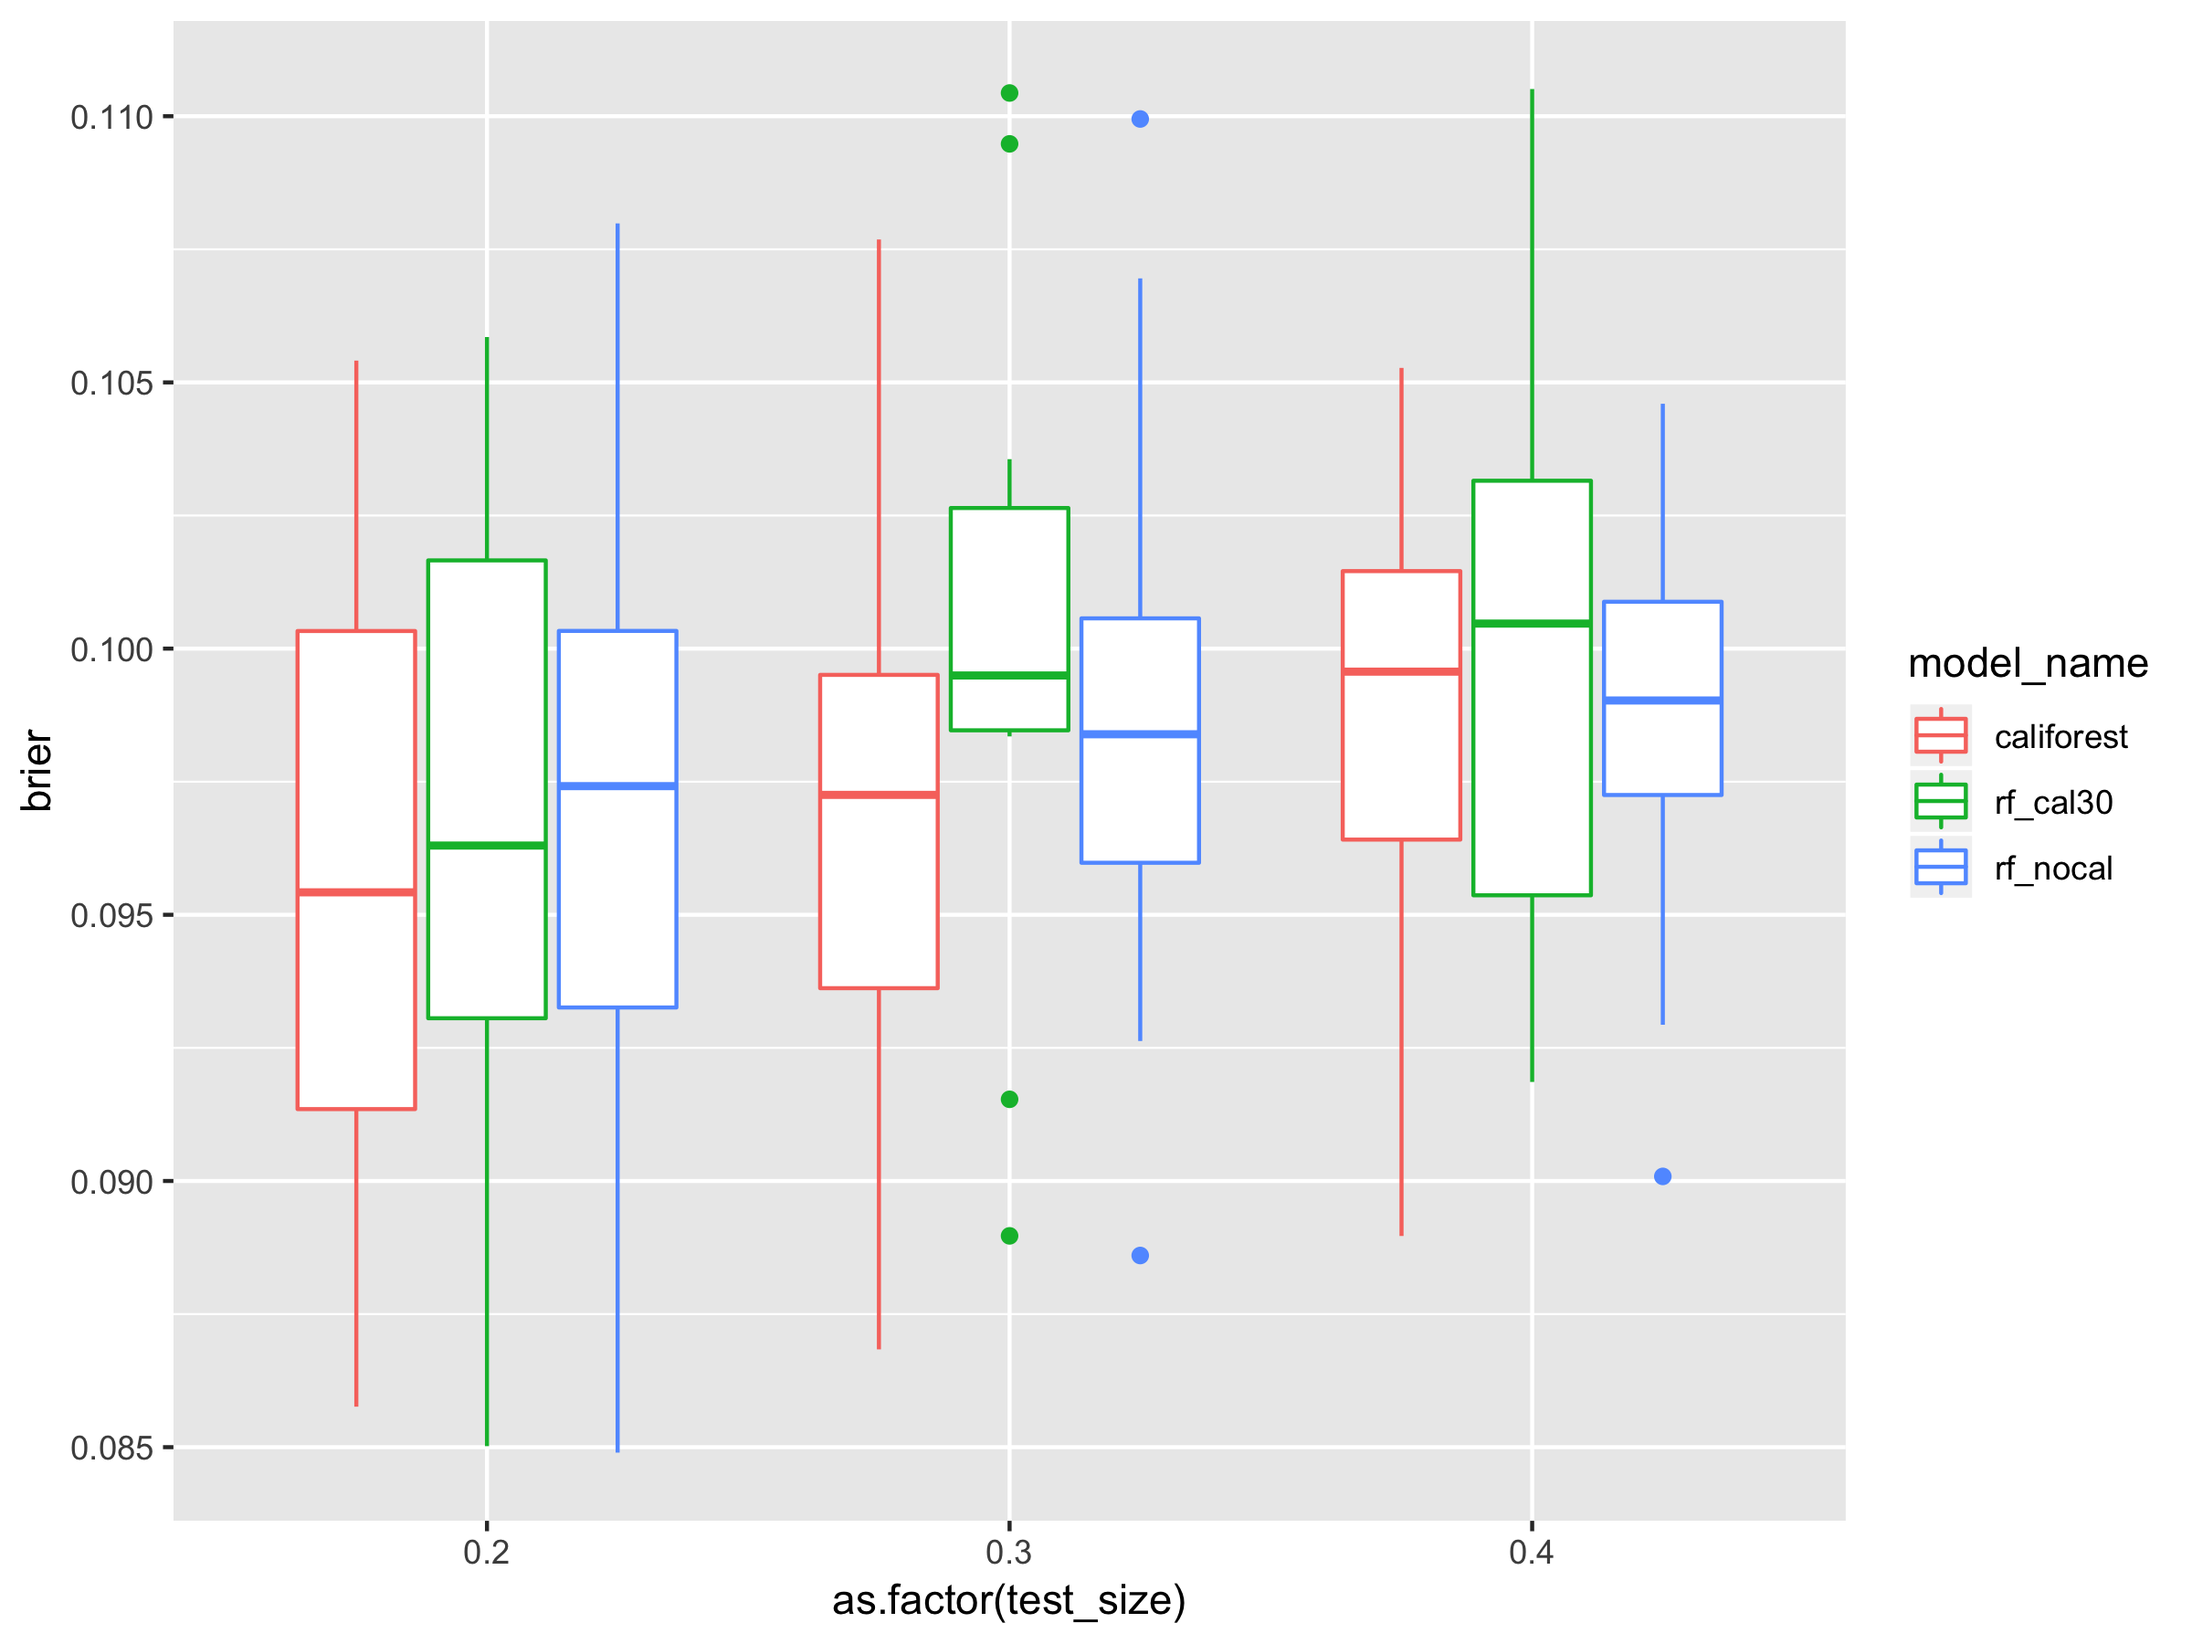
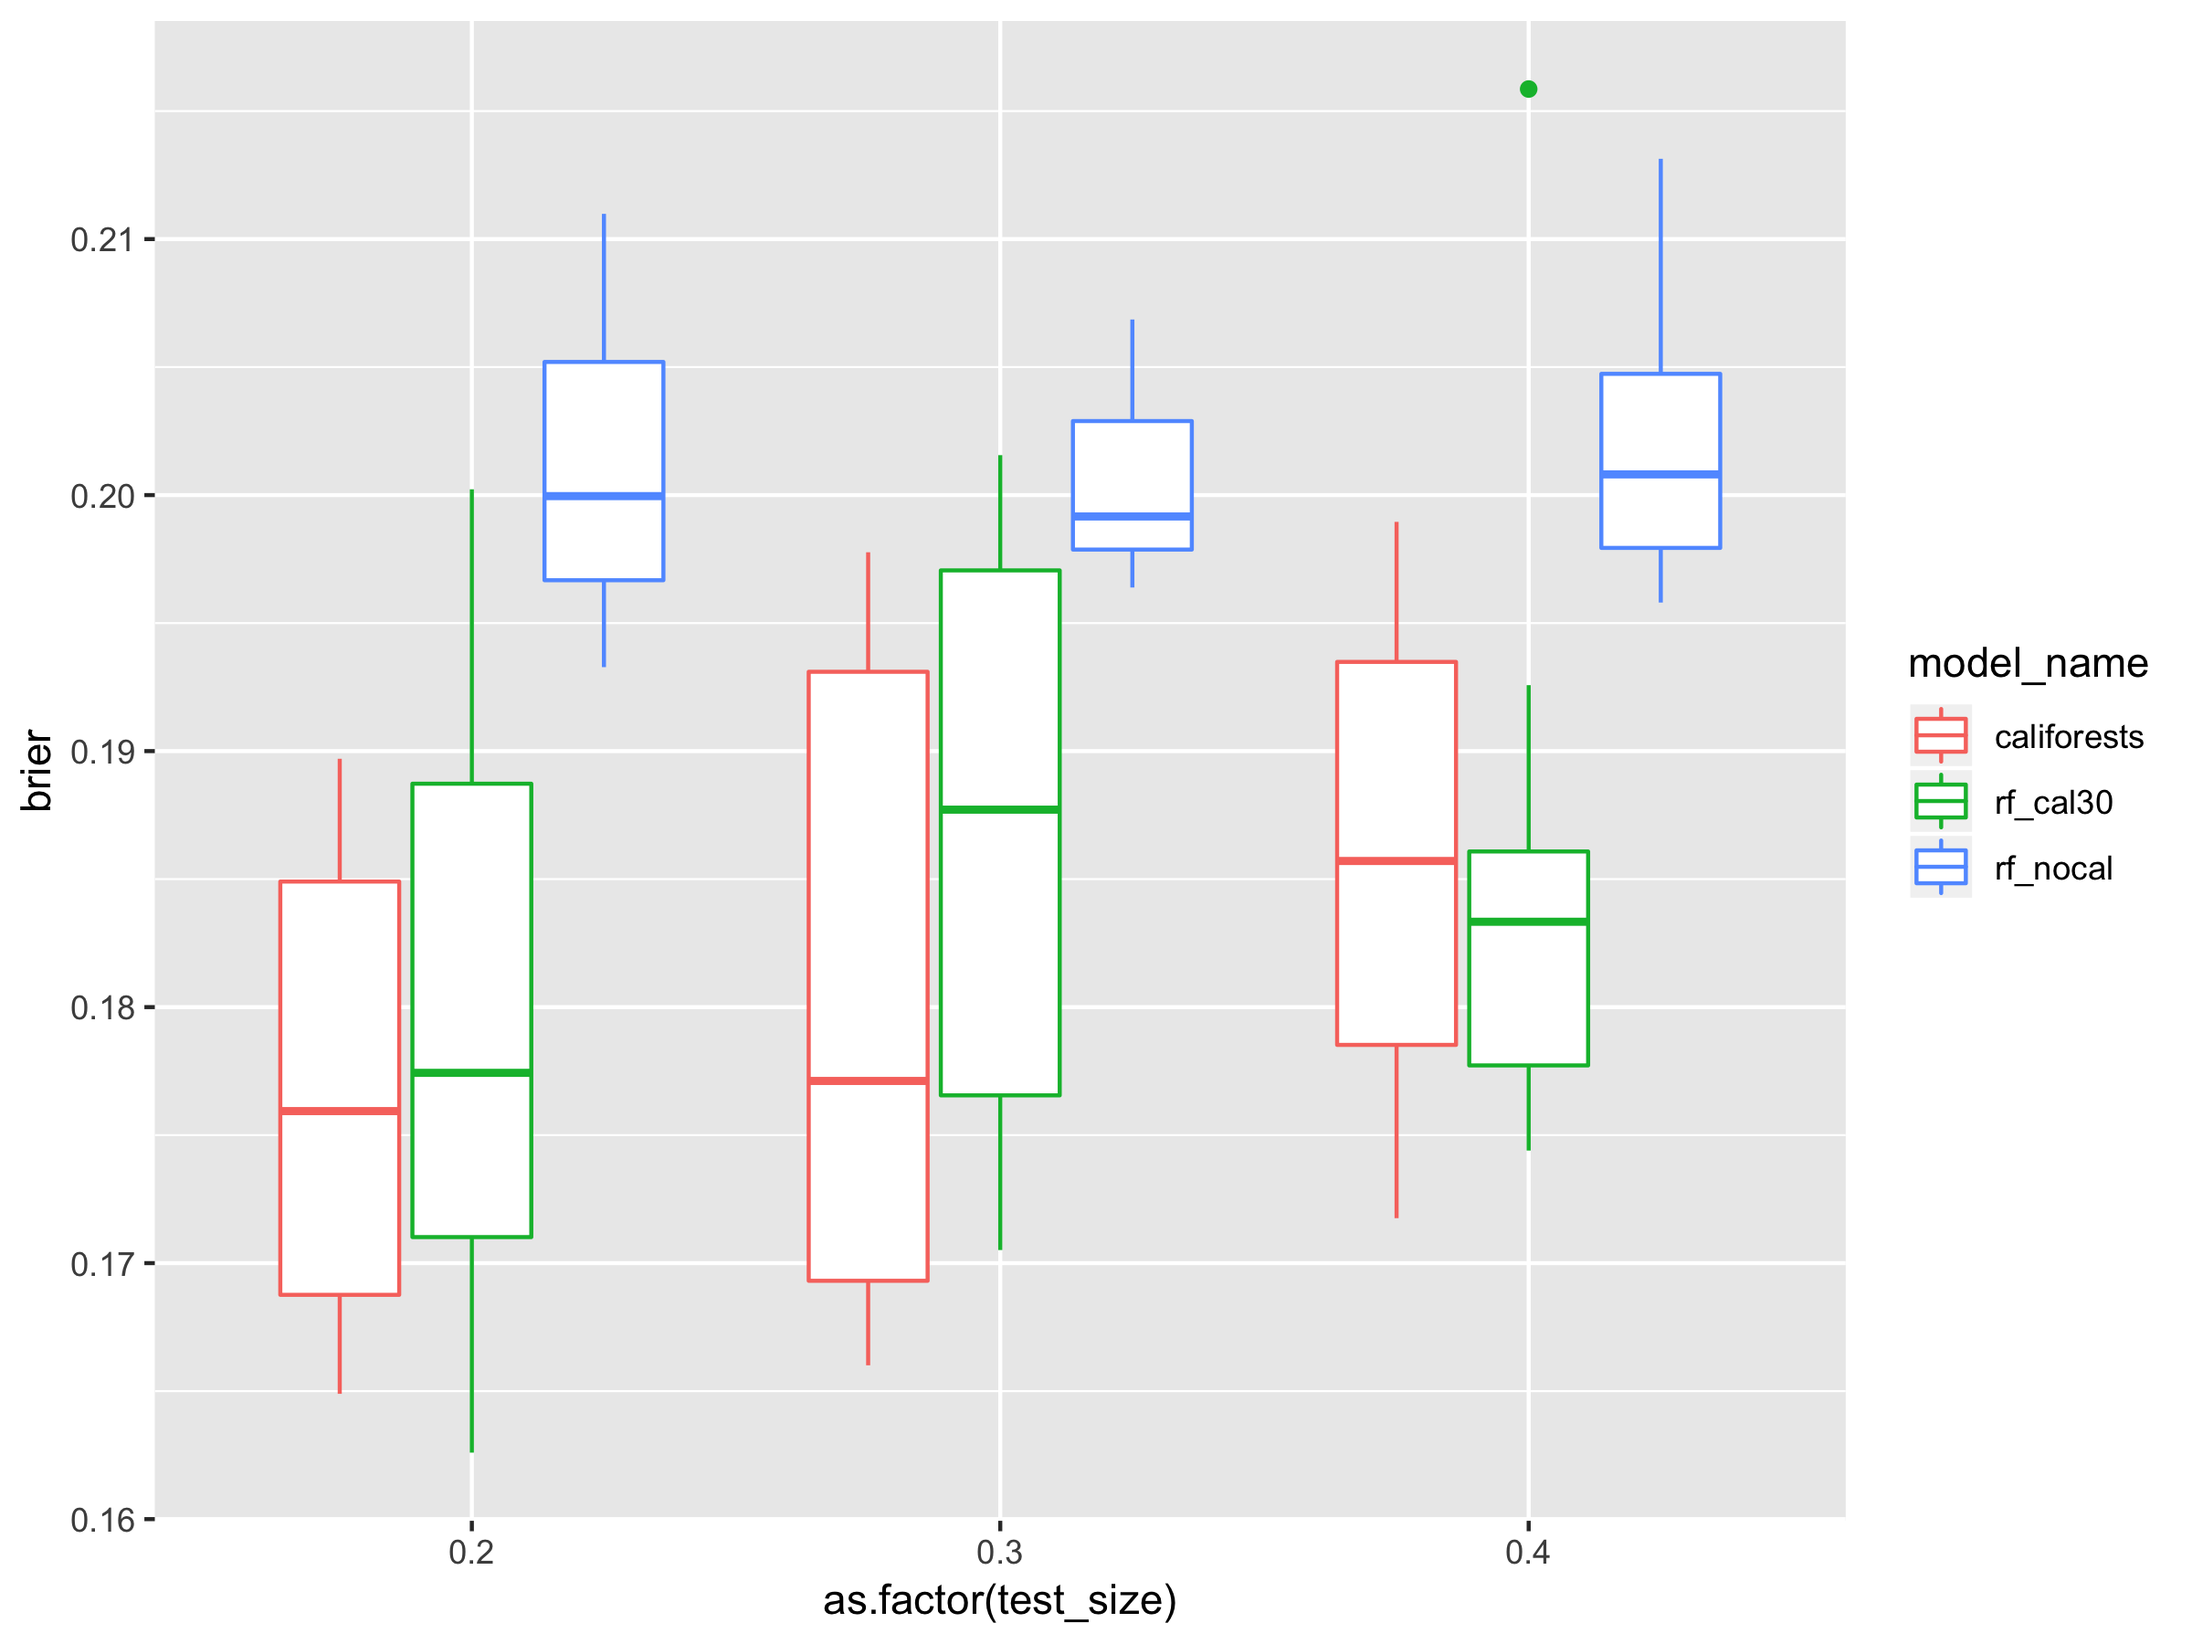
renaming

diff --git a/analysis/test_simul.py b/analysis/test_simul.py
@@ -10,15 +10,15 @@ from sklearn.ensemble import RandomForestClassifier
 from sklearn.linear_model import LogisticRegression
 from sklearn.model_selection import train_test_split
 from sklearn.impute import SimpleImputer
-from califorest.califorest import CaliForest
-from califorest.rc30 import RC30
+from califorests import CaliForests
+from califorests import RC30
 
 
 n_estimators = 30
 max_depth = 5
 min_samples_split = 3
 min_samples_leaf = 1
-models = {"califorest": CaliForest(n_estimators=n_estimators,
+models = {"califorests": CaliForests(n_estimators=n_estimators,
                                     max_depth=max_depth, 
                                     min_samples_split=min_samples_split,
                                     min_samples_leaf=min_samples_leaf),
@@ -45,9 +45,9 @@ def get_mortdata():
     return X, y
 
 #X, y = load_breast_cancer(return_X_y=True)
-#X, y = make_hastie_10_2(n_samples=1000)
-#y[y<0] = 0
-X, y = get_mortdata()
+X, y = make_hastie_10_2(n_samples=1000)
+y[y<0] = 0
+#X, y = get_mortdata()
 imp = SimpleImputer(missing_values=np.nan, strategy="mean")
 np.random.seed(1)
 

diff --git a/califorests/califorests.py b/califorests/califorests.py
@@ -4,7 +4,7 @@ from sklearn.linear_model import LogisticRegression as LR
 from sklearn.isotonic import IsotonicRegression
 from sklearn.model_selection import train_test_split
 
-class CaliForest:
+class CaliForests:
 
     def __init__(self,
                 n_estimators=30,

diff --git a/setup.py b/setup.py
@@ -4,7 +4,7 @@ with open("README.md", "r") as fh:
     long_description = fh.read()
 
 setup(packages=find_packages(),
-    name="cliforest",
+    name="califorest",
     version="0.0.1",
     description="TBD",
     long_description=long_description,

diff --git a/califorests/__init__.py b/califorests/__init__.py
@@ -1,0 +1,4 @@
+from .califorests import CaliForests
+from .rc30 import RC30
+
+__all__ = ["CaliForests", "RC30"]

diff --git a/README.md b/README.md
@@ -1,5 +1,13 @@
-# CaliForest
+# CaliForests
 
-Calibrated Random Forest
+**Cali**brated Random **Forests**
+
+## Theory
+
+CaliForests
+
+
+
+
 
 
